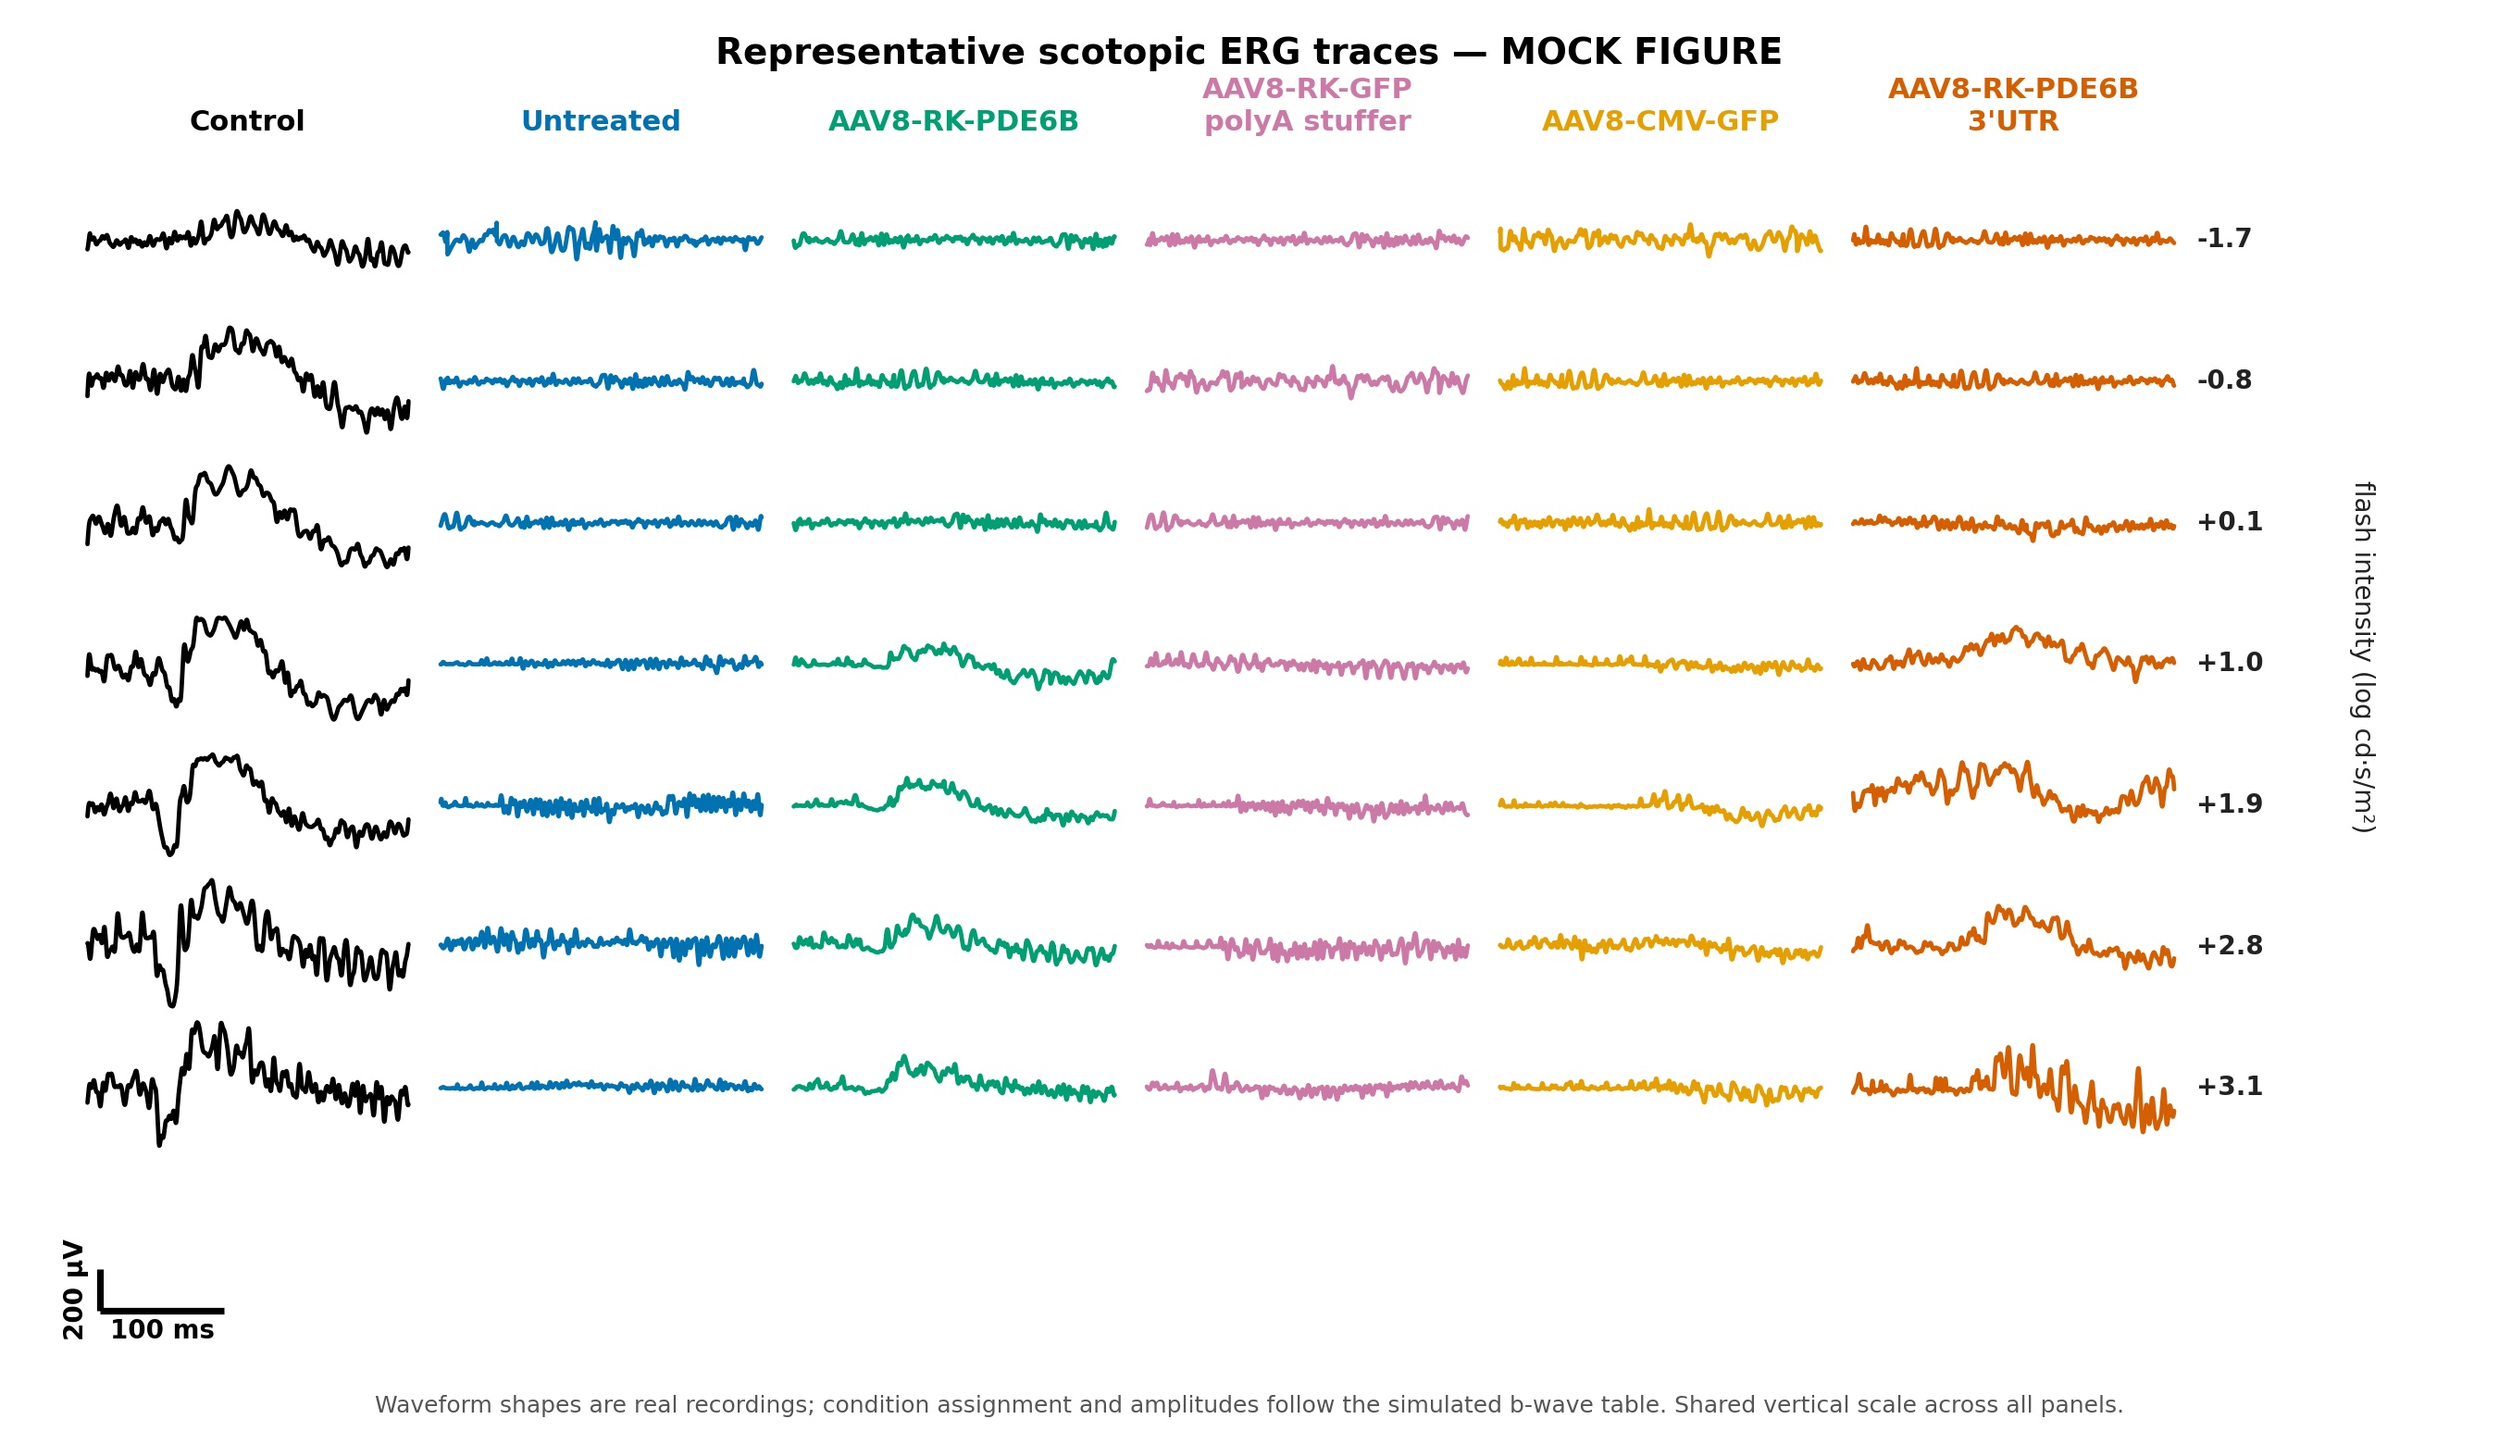
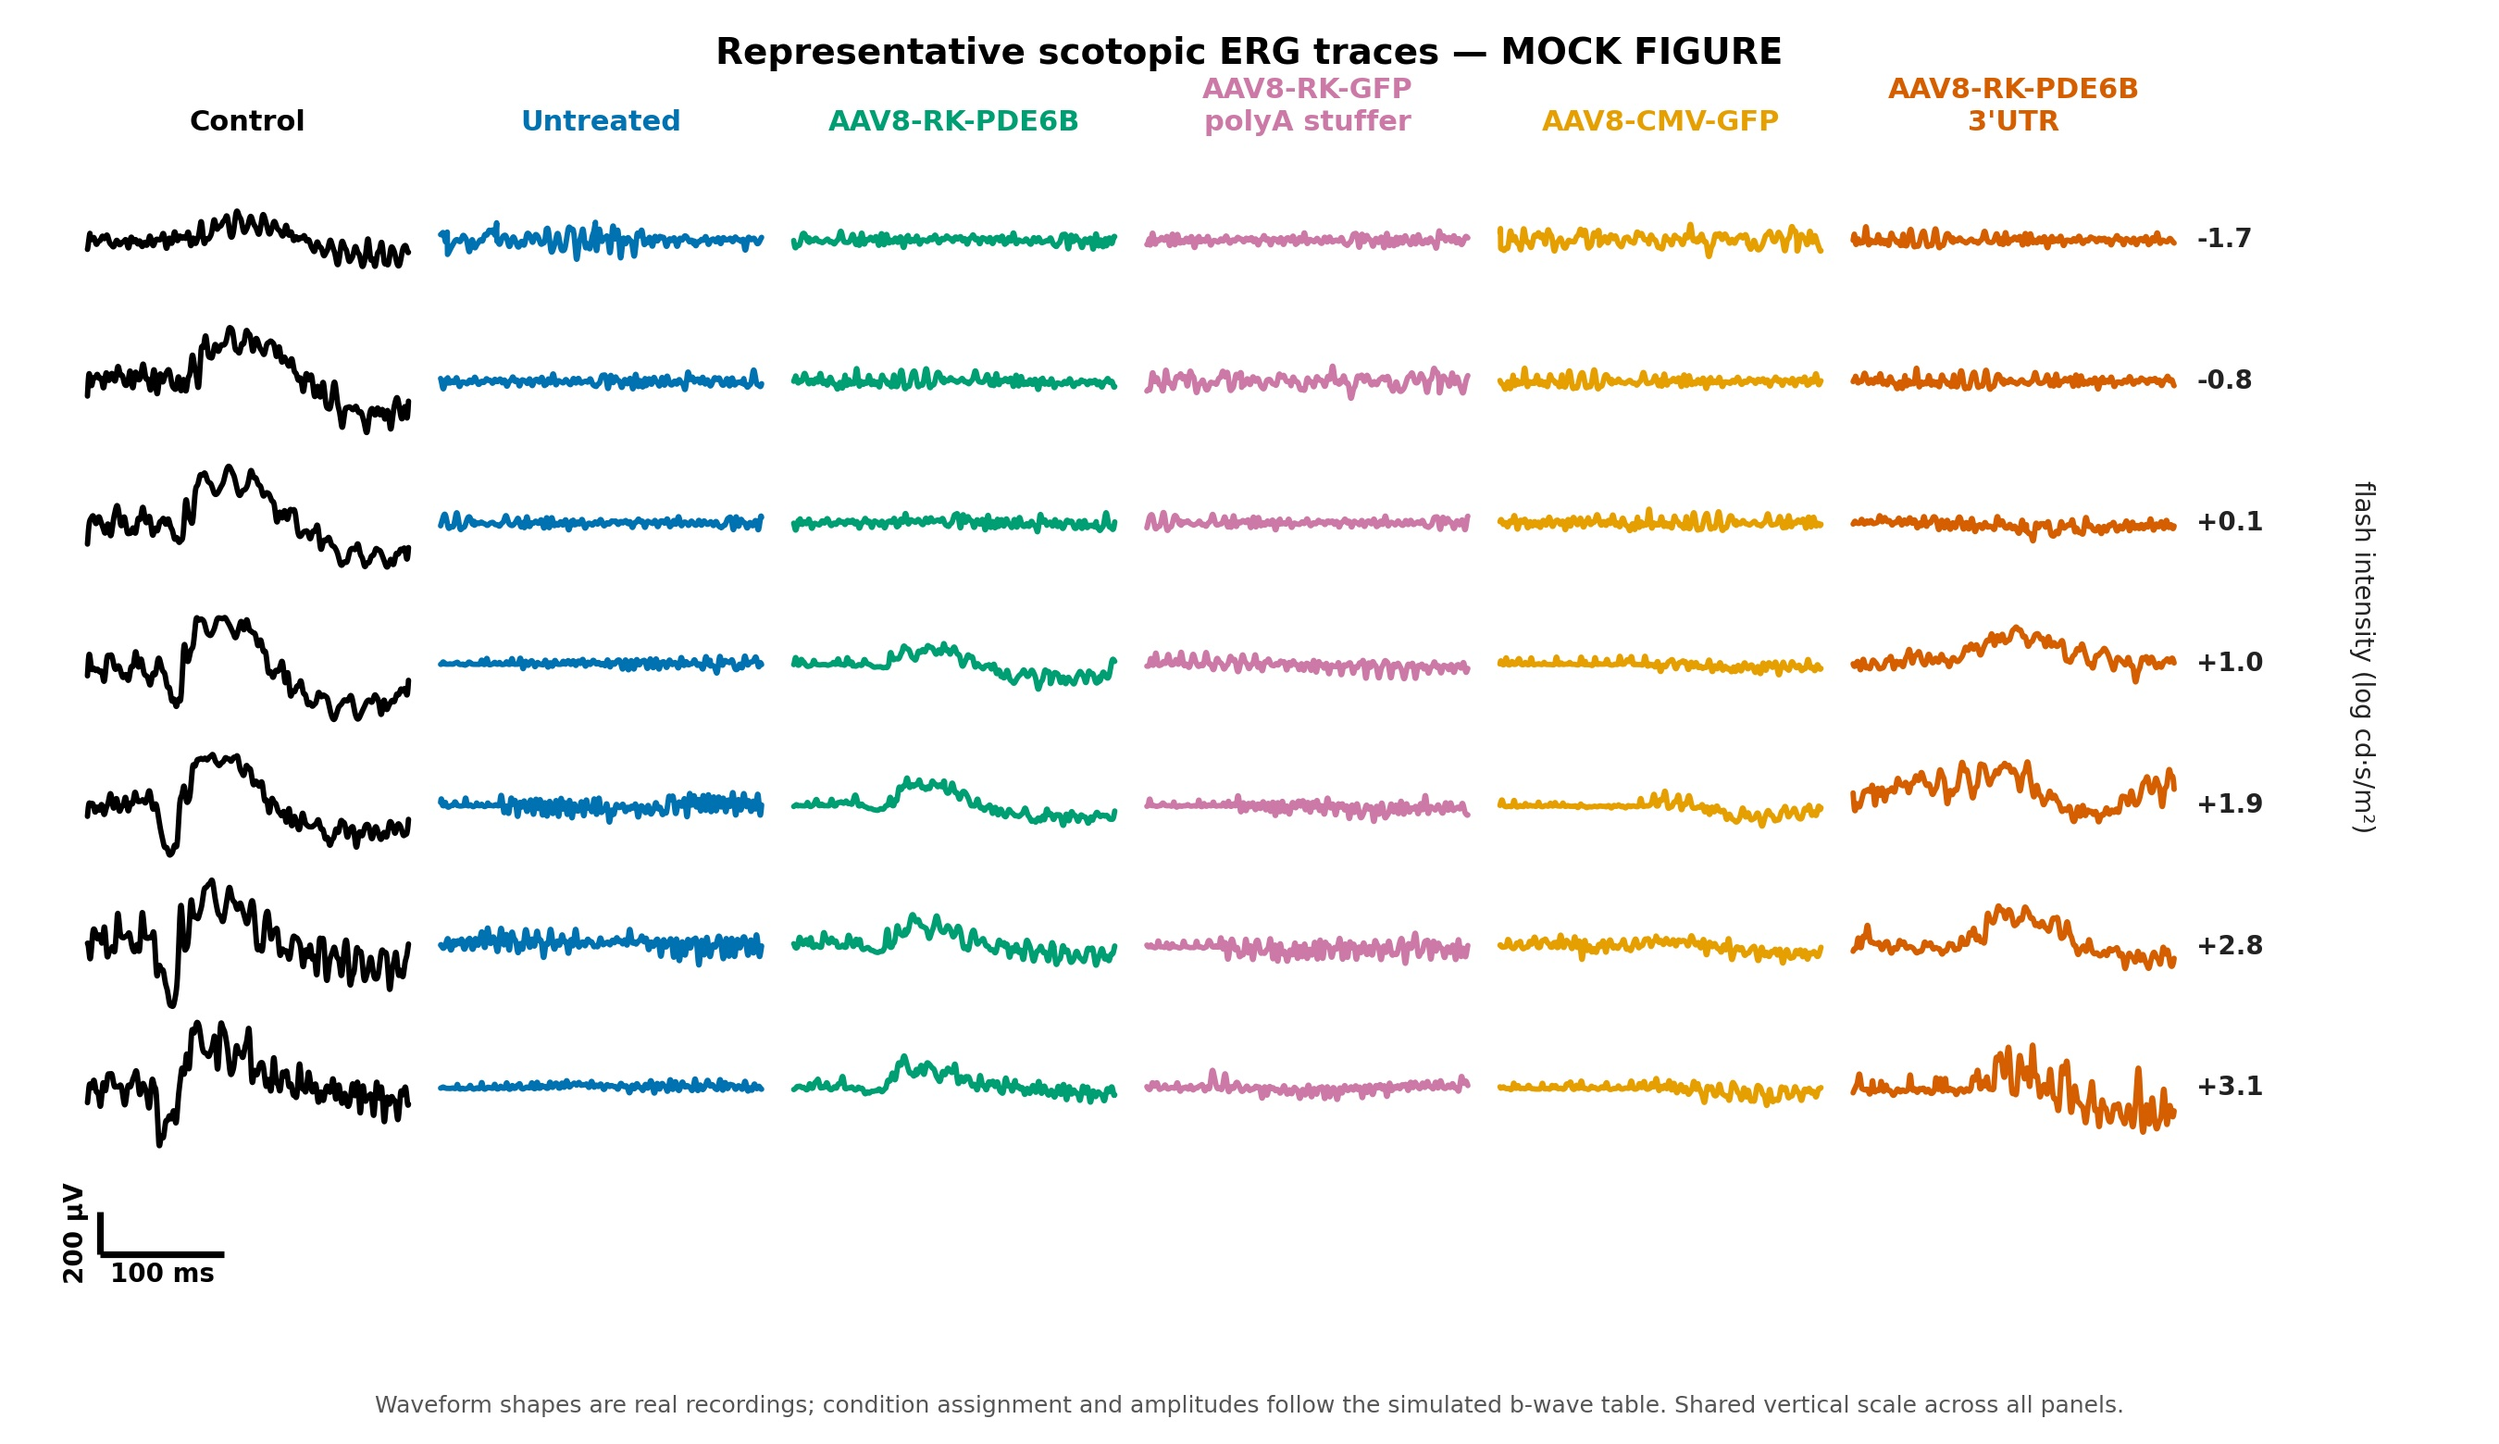
style(erg): thicker trace lines, scale bar closer to the grid
Owner-directed on the n=3 figure. Applied to BOTH variants rather than n=3 only --
they are two views of the same figure and would otherwise not match if put side by
side.

LINE_WIDTH 1.7 -> 2.1. The scale bar's own axes moves up via a new SCALEBAR_DROP
(0.70 of a panel height instead of a full one). Its HEIGHT is deliberately left
equal to a panel's: that equality is what makes 200 uV render at exactly the panel
scale, so only the POSITION is tunable, and the constant says so.

Also retired a stale comment on SOURCE_EYE. It justified borrowing the WT eye for
AAV8-RK-PDE6B with "a rescued retina gives a smaller version of a normal response"
-- the exact premise the previous commit disproved. It now states what borrowing
actually costs and that AWAVE_MAX_RATIO is what pays for it.

verify.sh 7/7; a-wave check still Control 0.27-0.98, every rd10 arm at/under 0.18.

diff --git a/docs/records/erg-module/mock-fig1e/render_mock_fig1e_traces.py b/docs/records/erg-module/mock-fig1e/render_mock_fig1e_traces.py
@@ -87,7 +87,7 @@ COLORS = {
     "AAV8-RK-PDE6B-3UTR": "#D55E00",         # vermillion -- best rescue
 }
 
-LINE_WIDTH = 1.7
+LINE_WIDTH = 2.1
 ROW_GAP = 0.0
 COL_GAP = 0.10
 FIG_SIZE = (13.5, 7.8)
@@ -95,6 +95,10 @@ HEADER_SIZE = 11
 INTENSITY_SIZE = 10
 SCALEBAR_UV = 200
 SCALEBAR_MS = 100
+#: How far the scale-bar axes sits below the last row, as a fraction of one panel's height.
+#: Its HEIGHT must stay equal to a panel's (see render) so 200 µV is drawn at exactly the panel
+#: scale — only its position is tunable, which is what this is.
+SCALEBAR_DROP = 0.70
 
 T_MAX_MS = 260.0        # trim the long quiet tail; the response is over well before this
 NOISE_TAIL_MS = 220.0   # samples past this are treated as recording noise
@@ -108,9 +112,10 @@ SOURCE_EYE = {
     "Untreated": "255_LE",
     # NOT this arm's own eye (256_RE): that recording is noise-dominated and has no clean
     # b-wave to scale, so the partial-rescue column rendered flat -- the opposite of what
-    # the figure is meant to show. The WT eye scaled down reads correctly as a partial
-    # rescue (a rescued retina gives a smaller version of a normal response) and stays
-    # visually distinct from the 3'UTR column, which keeps its own eye.
+    # the figure is meant to show. Borrowing the WT eye costs one thing, which AWAVE_MAX_RATIO
+    # then pays for: a uniform gain would also carry the WT's full a-wave into this column,
+    # and a rescued rd10 retina does NOT give a smaller version of a normal response -- it
+    # gives a b-wave without the matching photoreceptor trough.
     "AAV8-RK-PDE6B": "633_LE",
     "AAV8-RK-GFP-polyA-stuffer": "248_LE",
     "AAV8-CMV-GFP": "257_LE",
@@ -308,7 +313,8 @@ def render(panels, out_path: Path, dpi: int) -> None:
     # Shared scale bar in its own axes below the grid, given the same width, height and
     # limits as a grid panel so 200 µV and 100 ms are drawn at exactly the panel scale.
     pos = axes[nrows - 1][0].get_position()
-    sb = fig.add_axes([pos.x0, pos.y0 - pos.height - 0.015, pos.width, pos.height])
+    sb = fig.add_axes([pos.x0, pos.y0 - pos.height * SCALEBAR_DROP - 0.005,
+                       pos.width, pos.height])
     sb.set_xlim(*xlim)
     sb.set_ylim(*ylim)
     sb.axis("off")
